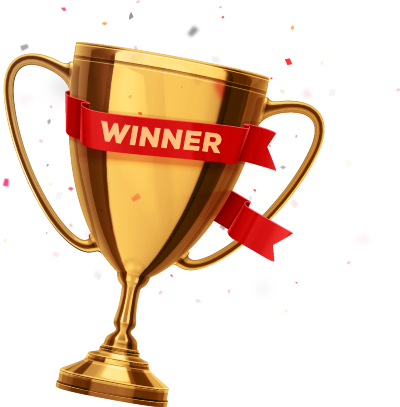
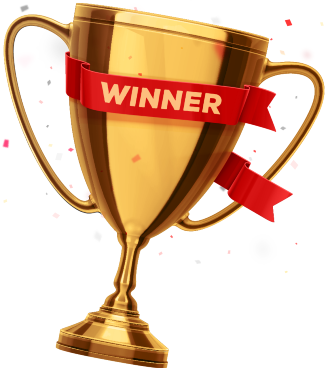
prize

diff --git a/script.js b/script.js
@@ -1,6 +1,7 @@
 var score = [];
 var allWrongs = [];
 var choice;
+var maxScore = 3;
 var answered1 = false;
 var answered2 = false;
 var answered3 = false;
@@ -26,6 +27,7 @@ const final = document.querySelector('#final');
 const finalScore = document.querySelector('#finalScore');
 const reload = document.querySelector('#reload');
 const wrongAnswers = document.querySelector('#wrongAnswers');
+const prizeImg = document.querySelector('#prizeImg');
 
 //const answers2 = document.querySelectorAll('.answers2');
 
@@ -104,6 +106,18 @@ const checkClicked = cl => {
   return Array.from(allAnswers).some(hasIt);
 };
 
+const sumResult = () => {
+  //summarize all score
+  const add = (a, b) => a + b;
+  const sum = score.reduce(add);
+  return sum;
+};
+
+const getPrize = () => {
+  prizeImg.style.display = 'block';
+  confetti();
+};
+
 startBtn.addEventListener('click', e => {
   headDiv.style.display = 'none';
   quiz1.style.display = 'flex';
@@ -149,11 +163,11 @@ finish.addEventListener('click', e => {
       }
     });
 
-    //summarize all score
-    const add = (a, b) => a + b;
-    const sum = score.reduce(add);
-    final.style.display = 'block';
-    finalScore.textContent = sum;
+    finalScore.textContent = `${sumResult()} / 3`;
+    if (sumResult() === maxScore) {
+      getPrize();
+    }
+    final.style.display = 'flex';
   } else {
     mes3.style.display = 'block';
   }
@@ -168,3 +182,108 @@ pre3.addEventListener('click', e => {
 reload.addEventListener('click', e => {
   window.location.reload();
 });
+
+const confetti = () => {
+  let W = window.innerWidth;
+  let H = window.innerHeight;
+  const canvas = document.getElementById('canvas');
+  const context = canvas.getContext('2d');
+  const maxConfettis = 150;
+  const particles = [];
+
+  const possibleColors = [
+    'DodgerBlue',
+    'OliveDrab',
+    'Gold',
+    'Pink',
+    'SlateBlue',
+    'LightBlue',
+    'Gold',
+    'Violet',
+    'PaleGreen',
+    'SteelBlue',
+    'SandyBrown',
+    'Chocolate',
+    'Crimson'
+  ];
+
+  function randomFromTo(from, to) {
+    return Math.floor(Math.random() * (to - from + 1) + from);
+  }
+
+  function confettiParticle() {
+    this.x = Math.random() * W; // x
+    this.y = Math.random() * H - H; // y
+    this.r = randomFromTo(11, 33); // radius
+    this.d = Math.random() * maxConfettis + 11;
+    this.color = possibleColors[Math.floor(Math.random() * possibleColors.length)];
+    this.tilt = Math.floor(Math.random() * 33) - 11;
+    this.tiltAngleIncremental = Math.random() * 0.07 + 0.05;
+    this.tiltAngle = 0;
+
+    this.draw = function() {
+      context.beginPath();
+      context.lineWidth = this.r / 2;
+      context.strokeStyle = this.color;
+      context.moveTo(this.x + this.tilt + this.r / 3, this.y);
+      context.lineTo(this.x + this.tilt, this.y + this.tilt + this.r / 5);
+      return context.stroke();
+    };
+  }
+
+  function Draw() {
+    const results = [];
+
+    // Magical recursive functional love
+    requestAnimationFrame(Draw);
+
+    context.clearRect(0, 0, W, window.innerHeight);
+
+    for (var i = 0; i < maxConfettis; i++) {
+      results.push(particles[i].draw());
+    }
+
+    let particle = {};
+    let remainingFlakes = 0;
+    for (var i = 0; i < maxConfettis; i++) {
+      particle = particles[i];
+
+      particle.tiltAngle += particle.tiltAngleIncremental;
+      particle.y += (Math.cos(particle.d) + 3 + particle.r / 2) / 2;
+      particle.tilt = Math.sin(particle.tiltAngle - i / 3) * 15;
+
+      if (particle.y <= H) remainingFlakes++;
+
+      // If a confetti has fluttered out of view,
+      // bring it back to above the viewport and let if re-fall.
+      if (particle.x > W + 30 || particle.x < -30 || particle.y > H) {
+        particle.x = Math.random() * W;
+        particle.y = -30;
+        particle.tilt = Math.floor(Math.random() * 10) - 20;
+      }
+    }
+
+    return results;
+  }
+
+  window.addEventListener(
+    'resize',
+    function() {
+      W = window.innerWidth;
+      H = window.innerHeight;
+      canvas.width = window.innerWidth;
+      canvas.height = window.innerHeight;
+    },
+    false
+  );
+
+  // Push new confetti objects to `particles[]`
+  for (var i = 0; i < maxConfettis; i++) {
+    particles.push(new confettiParticle());
+  }
+
+  // Initialize
+  canvas.width = W;
+  canvas.height = H;
+  Draw();
+};

diff --git a/style.css b/style.css
@@ -6,10 +6,15 @@
   padding: 0;
 }
 
-.main {
-  height: 100vh;
-  text-align: center;
+body {
+  height: 100%;
   background-color: #f0f0c9;
+  background-size: cover;
+}
+
+.main {
+  min-height: 100vh;
+  text-align: center;
   font-family: 'Merriweather', serif;
   letter-spacing: 0.5px;
 }
@@ -30,6 +35,7 @@
 
 .center {
   margin: auto;
+  z-index: 99;
 }
 
 button {
@@ -243,6 +249,7 @@ button {
 }
 
 /*OUTCOME*/
+
 #wrongAnswers {
   display: flex;
   flex-flow: row wrap;
@@ -255,6 +262,14 @@ button {
   margin: 10px;
 }
 
+#prizeImg {
+  display: none;
+}
+
+.scoreP {
+  margin: 10px auto;
+}
+
 .questionWrong {
   color: green;
 }
@@ -265,6 +280,14 @@ button {
 
 .wrongAnswer {
   color: red;
+}
+
+canvas {
+  position: absolute;
+  overflow-y: hidden;
+  overflow-x: hidden;
+  width: 100%;
+  margin: 0;
 }
 
 /*MEDIA*/

diff --git a/index.html b/index.html
@@ -100,9 +100,13 @@
       </div>
 
       <div class="quizPages containers" id="final">
-        <p>Your score is: <span id="finalScore"></span></p>
-        <div id="wrongAnswers"></div>
-        <button id="reload">Try Again</button>
+        <canvas id="canvas"></canvas>
+        <div class="center">
+          <img id="prizeImg" src="images/prize.png" />
+          <p class="scoreP">You scored: <span id="finalScore"></span></p>
+          <div id="wrongAnswers"></div>
+          <button class="next" id="reload">Try Again</button>
+        </div>
       </div>
     </div>
 
